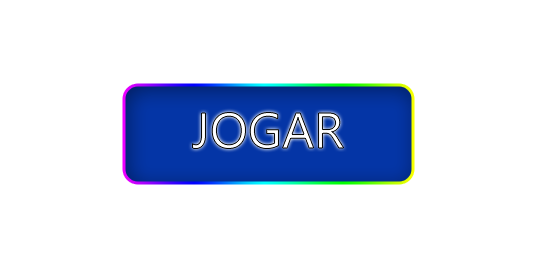
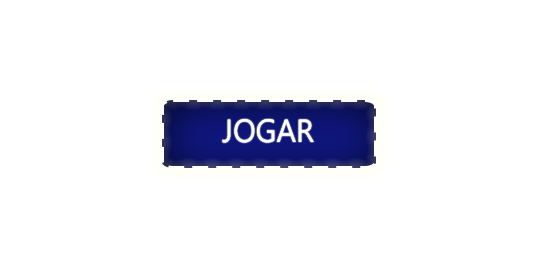
alteração do botão/limpeza de código/retirada de texto

Changed region(s): [[0.209, 0.2985, 0.7761, 0.7164]]

diff --git a/lib/pages/playmenu.dart b/lib/pages/playmenu.dart
@@ -11,46 +11,8 @@ class PlayMenu extends StatefulWidget {
 }
 
 class _HomePageState extends State<PlayMenu> {
-  List options = ["pedra", "papel", "tesoura"];
-  var points = 0;
-  var maquina_points = 0;
 
   static const primaryColor = Color.fromARGB(255, 255, 255, 255);
-
-  String _message = "Sua Jogada: ";
-  final String _imagePath = "images/default.png";
-  var imageApp = AssetImage("images/default.png");
-
-  void _play(String choice) {
-    int i = Random().nextInt(options.length);
-
-    String randomChoice = options[i];
-    //_imagePath = "images/$randomChoice.png";
-    imageApp = AssetImage("images/$randomChoice.png");
-    print("Jogada do jogador: $choice, Jogada da máquina: $randomChoice");
-    if ((choice == "pedra" && randomChoice == "tesoura") ||
-        (choice == "papel" && randomChoice == "pedra") ||
-        (choice == "tesoura" && randomChoice == "papel")) {
-      // Jogador venceu
-      setState(() {
-        _message = "Voce venceu!";
-        points++;
-      });
-    } else if ((choice == "pedra" && randomChoice == "papel") ||
-        (choice == "papel" && randomChoice == "tesoura") ||
-        (choice == "tesoura" && randomChoice == "pedra")) {
-      // Jogador Perdeu
-      setState(() {
-        _message = "Voce Perdeu!";
-        maquina_points++;
-      });
-    } else {
-      //Empate
-      setState(() {
-        _message = "Empatou!";
-      });
-    }
-  }
 
   _comecarJogo() {
     Navigator.push(context, MaterialPageRoute(builder: (_) => HomePage()));
@@ -88,7 +50,7 @@ class _HomePageState extends State<PlayMenu> {
               children: [
                 GestureDetector(
                   onTap: () => _comecarJogo(),
-                  child: Image.asset("images/botaojogar.png", height: 175,),
+                  child: Image.asset("images/botaojogar.png", height: 245,),
                 ),
               ],
             ),

diff --git a/lib/pages/home.dart b/lib/pages/home.dart
@@ -67,17 +67,17 @@ class _HomePageState extends State<HomePage> {
         child: Column(
           mainAxisAlignment: MainAxisAlignment.spaceEvenly,
           children: [
-            Padding(
-              padding: EdgeInsets.only(top: 32, bottom: 16),
-              child: Text(
-                "Jogada da Máquina!",
-                style: TextStyle(
-                  fontSize: 20,
-                  fontWeight: FontWeight.bold,
-                  color: Colors.white,
-                ),
-              ),
-            ),
+            // Padding(
+            //   padding: EdgeInsets.only(top: 32, bottom: 16),
+            //   child: Text(
+            //     "Jogada da Máquina!",
+            //     style: TextStyle(
+            //       fontSize: 20,
+            //       fontWeight: FontWeight.bold,
+            //       color: Colors.white,
+            //     ),
+            //   ),
+            // ),
             Padding(
               padding: EdgeInsets.only(top: 10, bottom: 16),
               child: Text(
